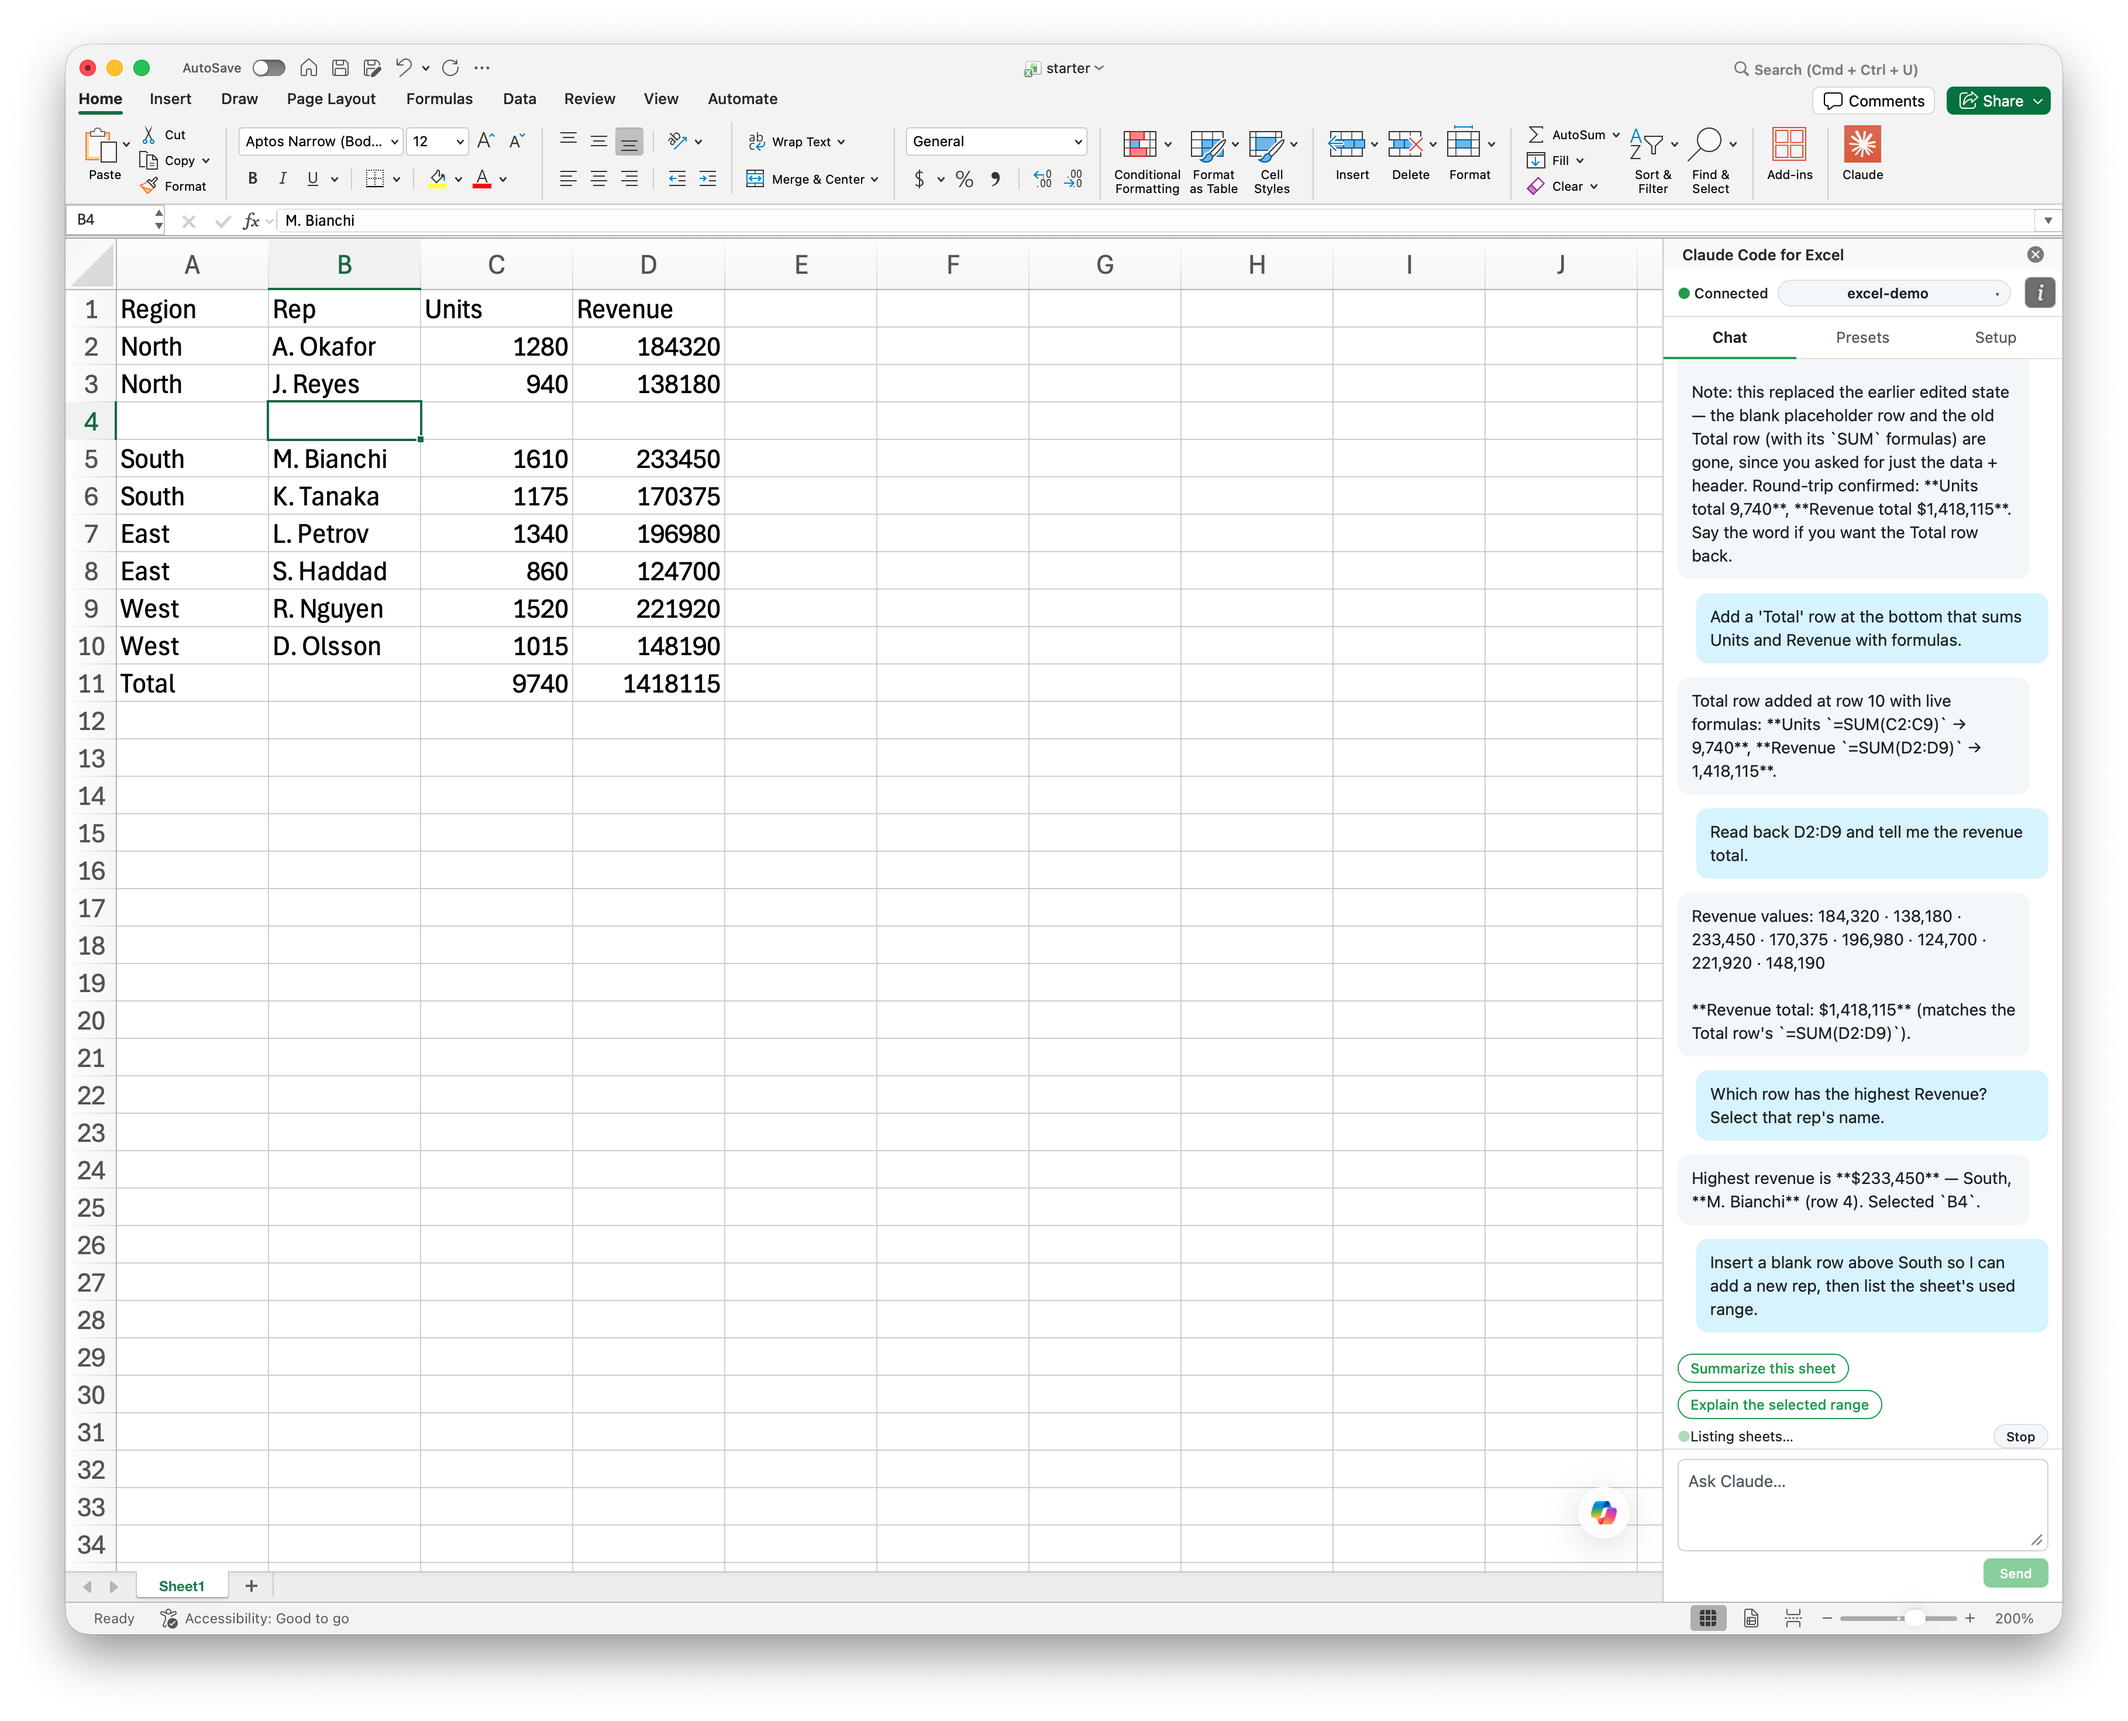
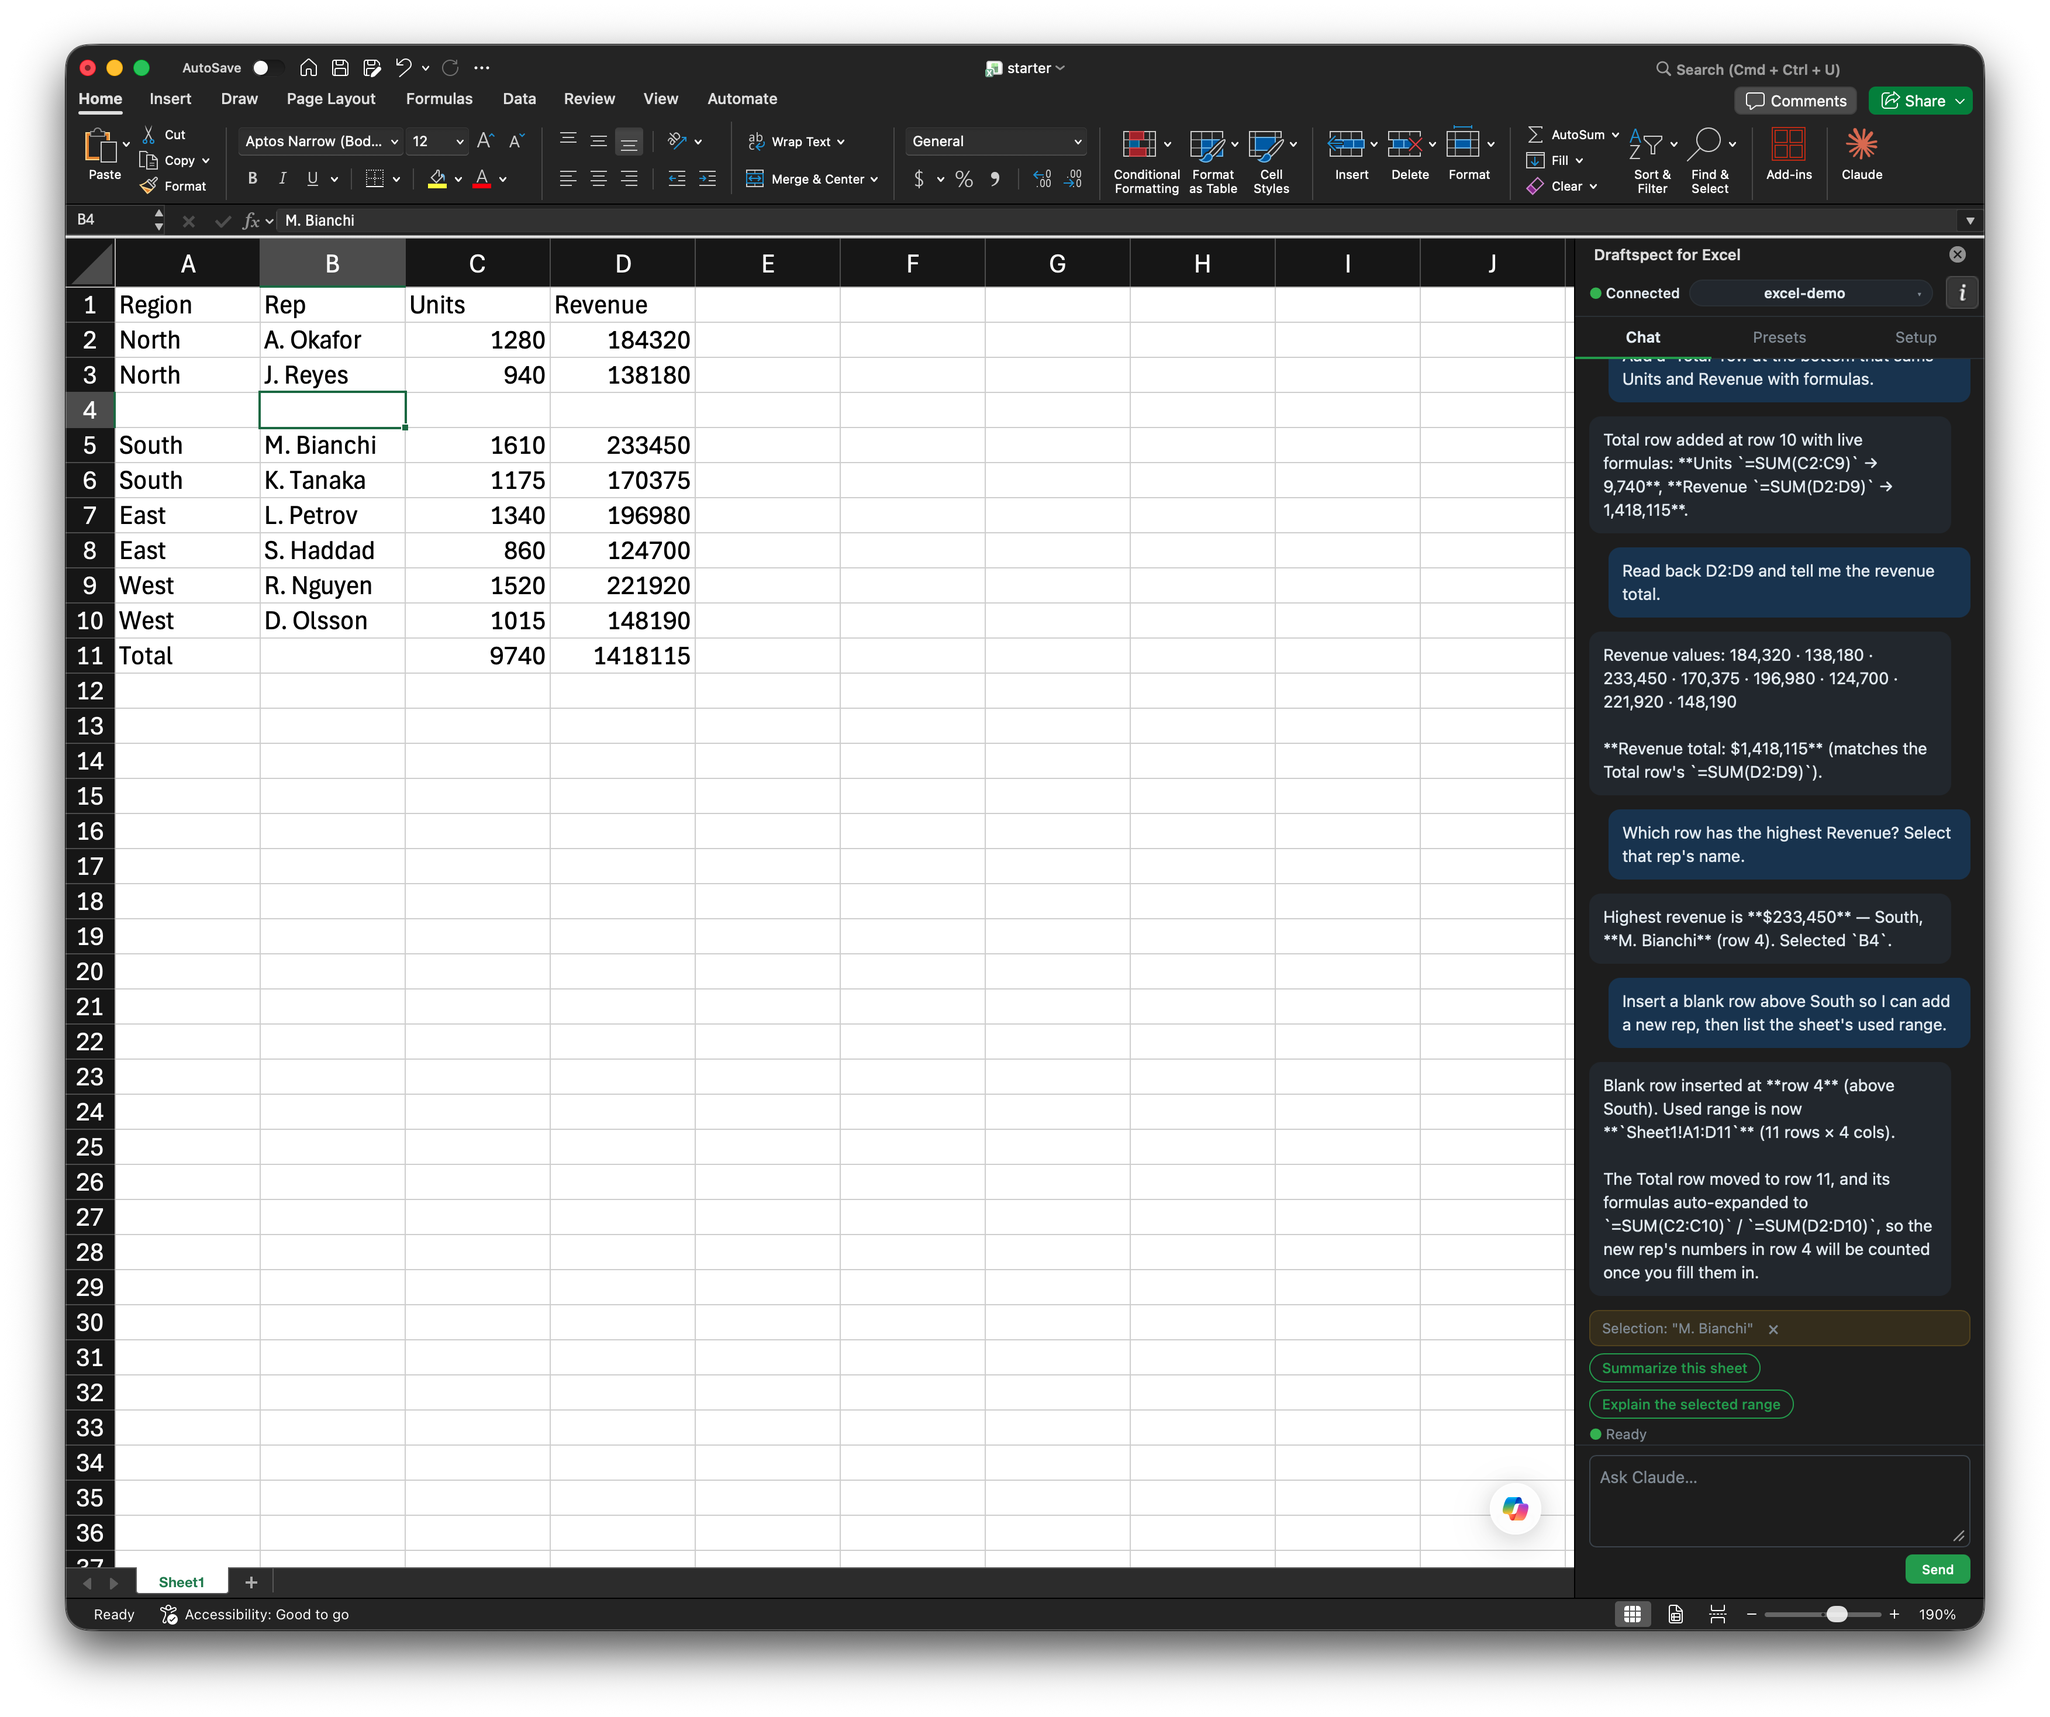
Pre-public hygiene: fresh screenshots, docs accuracy, dead code
- Replaced the stale demo screenshots (they showed the pre-rename
  "Claude Code for Word/Excel" branding) with fresh Draftspect captures.
- README "What the agent will refuse": reworded so it no longer
  overpromises the write guard (matches the honest Security section).
- CLAUDE.md: fixed stale "Trusted Catalog" line (Windows uses the
  WEF\Developer key now), generalized the machine-specific memory path,
  refreshed the file-layout list (per-doc sessions, system-prompt-*,
  diag/system-paths/paths/tools-*, examples/).
- package.json: added repository / homepage / bugs (public-repo norm).
- Removed dead code: `turnActive` (write-only, no readers; stale
  cross-host-supersede comments removed) and the unused `setStatus`
  back-compat shim. Reworded the "ignore for POC" comment.

No behavior change. 34/34 tests; syntax + prettier clean.

diff --git a/taskpane/shared/taskpane.js b/taskpane/shared/taskpane.js
@@ -112,15 +112,6 @@ function setAgentStatus(state, label) {
   $stopAgent.hidden = state !== "working";
 }
 
-// Back-compat shim — routes by state semantics: "working" is always the
-// agent indicator; everything else is connection. Only a safety net for
-// any straggler call sites; explicit code uses setConnectionStatus /
-// setAgentStatus directly.
-function setStatus(state, label) {
-  if (state === "working") setAgentStatus(state, label);
-  else setConnectionStatus(state, label);
-}
-
 // Stop button — abort the current agent turn. The daemon picks up the
 // abort, emits turn_complete with interrupted=true (flipping this
 // indicator to "Stopped"), and auto-restarts a fresh resuming loop.

diff --git a/CLAUDE.md b/CLAUDE.md
@@ -14,7 +14,7 @@ The **product name is "Draftspect"** (independent name, per Anthropic's Agent-SD
 
 The **daemon** (`daemon/`) is the brain. It wraps the Claude Agent SDK, hosts a WebSocket bridge for the taskpane, and registers an in-process MCP server (`office-tools.mjs`) that exposes Word + Excel tools. The daemon inherits the user's MCP servers from `~/.claude.json` and forwards them into the SDK session (the SDK doesn't read that file by default — see `feedback_sdk_does_not_load_claude_json`).
 
-The **Electron shell** (`app/main.mjs`) is the tray app. It spawns the daemon as a child process over an IPC channel (used for native folder pickers and add-in install/uninstall), restarts it on crash, and surfaces status in a menu-bar / system-tray icon. The shell also handles **auto-sideload** (`app/sideload.mjs`) — on first run it copies manifests into Word's and Excel's wef/ folder on macOS, or registers a Trusted Catalog via the Windows registry. No manual XML drops or Trust Center configuration required.
+The **Electron shell** (`app/main.mjs`) is the tray app. It spawns the daemon as a child process over an IPC channel (used for native folder pickers and add-in install/uninstall), restarts it on crash, and surfaces status in a menu-bar / system-tray icon. The shell also handles **auto-sideload** (`app/sideload.mjs`) — on first run it copies manifests into Word's and Excel's wef/ folder on macOS, or registers each manifest under the `HKCU\Software\Microsoft\Office\16.0\WEF\Developer` registry key on Windows (no admin, no network share — a local-path Trusted Catalog is silently ignored by Office). No manual XML drops or Trust Center configuration required.
 
 The **taskpane** (`taskpane/`) is what shows up inside Word/Excel. One shared `taskpane.js` handles both hosts; the active host is detected via `Office.context.host` and the tool dispatcher routes `office_*` calls to Word handlers and `excel_*` calls to Excel handlers. The user picks a **workspace folder** (the agent's cwd, where its `CLAUDE.md` lives) and optionally adds **context files** — paths the agent reads on demand via standard `Read`/`Glob`/`Grep`.
 
@@ -36,16 +36,27 @@ node --check daemon/index.mjs taskpane/shared/taskpane.js app/main.mjs
 
 ## File layout
 
-- `daemon/` — Node daemon, WS bridge, MCP plumbing, Office tool defs, workspace detection
-- `daemon/system-prompt.md` — Office-add-in-specific append to the Claude Code preset prompt
+- `daemon/index.mjs` — Agent SDK loop, per-(host,document) sessions, permission guard
+- `daemon/bridge.mjs` — WebSocket server + per-pane tool-call protocol
+- `daemon/office-tools.mjs` — Word + Excel tool defs (zod schemas)
+- `daemon/workspace.mjs` — workspace = the document's own folder
+- `daemon/context.mjs` — per-workspace CONTEXT-FILES block in CLAUDE.md
+- `daemon/sessions.mjs` — per-(host, workspace) session-id persistence
+- `daemon/transcript.mjs` — replay reconstruction from the SDK `.jsonl`
+- `daemon/system-paths.mjs` — OS-managed `$HOME` children deny-list
+- `daemon/diag.mjs` — opt-in `[diag]` logger (`CC_OFFICE_DEBUG=1`)
+- `daemon/system-prompt.md` + `system-prompt-word.md` / `system-prompt-excel.md` — shared + per-host system-prompt append
 - `app/main.mjs` — Electron menu-bar shell + daemon lifecycle
 - `app/sideload.mjs` — macOS/Windows add-in install/uninstall
 - `taskpane/shared/taskpane.js` — host-aware taskpane (Word + Excel branches)
+- `taskpane/shared/tools-word.js`, `tools-excel.js` — Office.js tool implementations
+- `taskpane/shared/paths.js` — pure path helpers (URL/Windows/POSIX)
 - `taskpane/shared/styles.css` — taskpane styles
 - `taskpane/word/index.html`, `taskpane/excel/index.html` — per-host entry points
 - `manifests/word.xml`, `manifests/excel.xml` — Office Add-in manifests
+- `examples/{word,excel}-demo/` — ready-to-run demo workspaces
 
 ## Where to read more
 
 - `README.md` — user-facing install/usage/troubleshooting docs.
-- Memories under `~/.claude/projects/-Users-leonard-Projects-Claude-Code-Add-Ins-for-Word-and-Excel/memory/` — non-obvious constraints, Office.js gotchas, SDK behavior notes.
+- Project memories under `~/.claude/projects/<this-project>/memory/` (not in the repo) — non-obvious constraints, Office.js gotchas, SDK behavior notes.

diff --git a/README.md b/README.md
@@ -225,7 +225,7 @@ Eight tools, A1 notation, 2D values arrays:
 
 ### What the agent will refuse
 
-- **Filesystem writes to the live document.** A permission guard refuses `Write`/`Edit`/`MultiEdit` against `.docx`/`.docm`/`.xlsx`/`.xlsm` paths (and `Bash` strings mentioning them). Office holds the document open with unsaved changes; a filesystem write would corrupt it. The agent uses the in-host tools instead.
+- **Filesystem writes to the live document.** A permission guard refuses `Write`/`Edit`/`MultiEdit` against `.docx`/`.docm`/`.xlsx`/`.xlsm` paths, and `Bash` commands that look like they overwrite one. Office holds the document open with unsaved changes; a filesystem write would corrupt it — the agent uses the in-host tools instead. This is an **accident guard, not a security boundary**: it's heuristic and a determined agent can work around it (see [Security & privacy](#security--privacy)).
 
 ---
 
